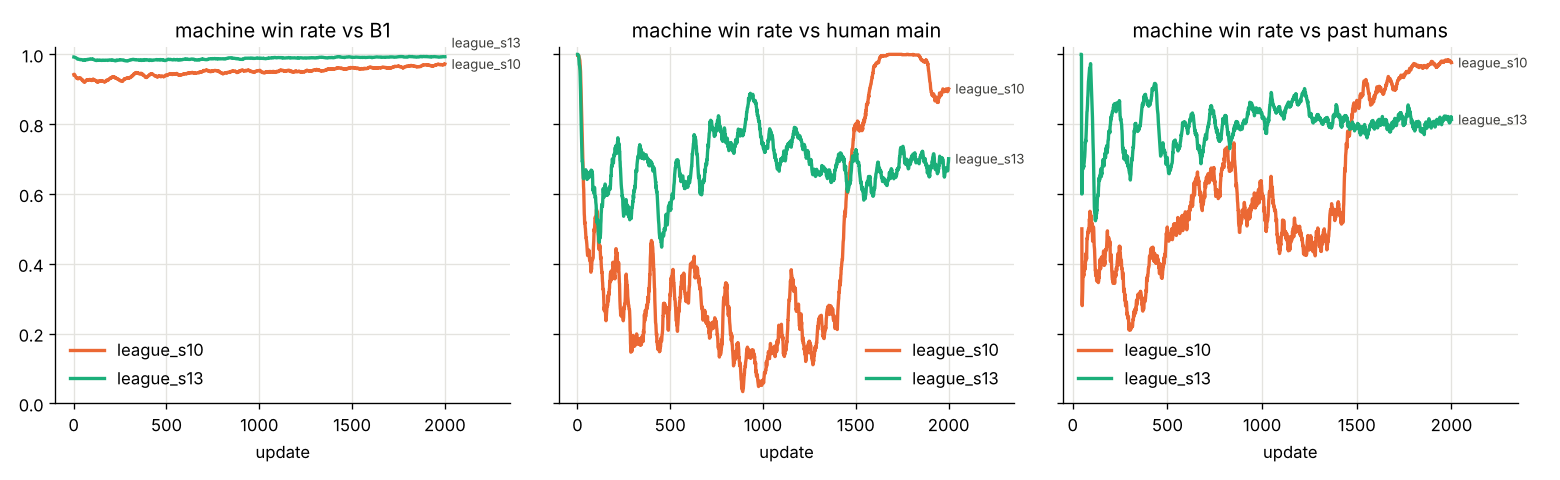
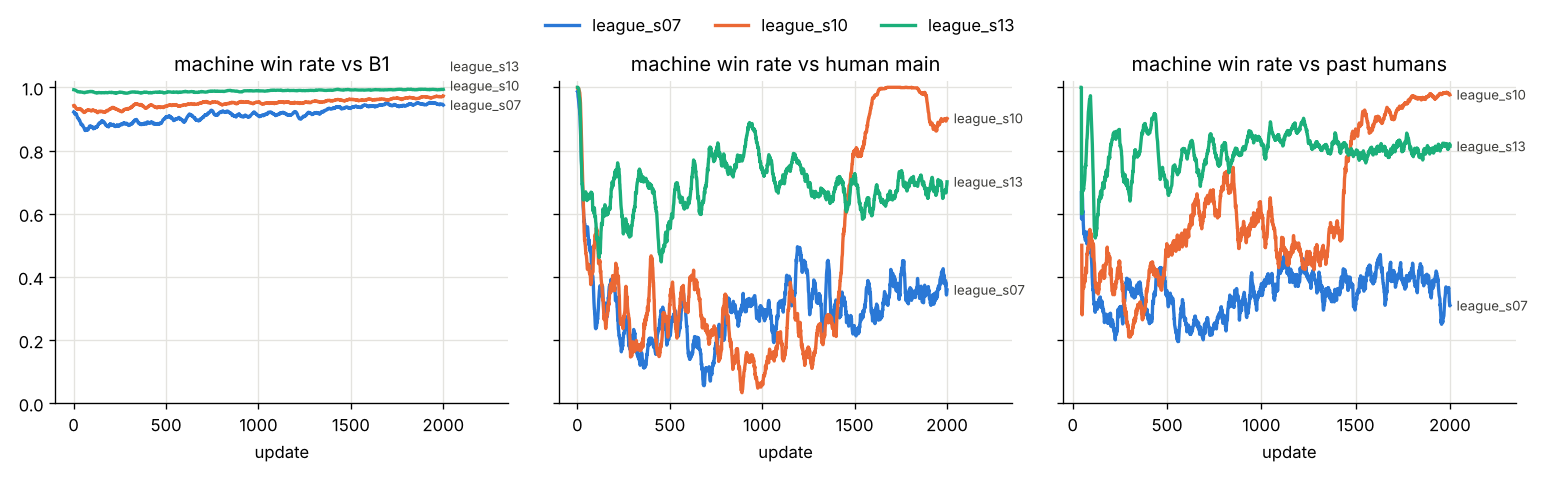
docs(train): the results of 11/17 in the manual's tables; three leagues in one figure
Fills the tables of 6-4 (speed experiment) and 7-7 (fixed opponent vs league, exploiters at 1.0)
from runs/eval and runs/exploit_*, marks the partner's evaluation and the 0.7 league done, and
adds the 1.3 and 0.7 exploiters running tonight. runs/league_curves.png now has all three
leagues, with one legend above the panels so it no longer covers the lines. The plan gains the
evening's results (7.7).

Claude-Session: https://claude.ai/code/session_01Kzu17ewE3agF2gJnYprw2y

diff --git a/python/train/plot_curve.py b/python/train/plot_curve.py
@@ -24,8 +24,8 @@ def colors_for(names):
     return [SPEED_COLORS.get(n.rsplit("_", 1)[-1]) or next(spare) for n in names]
 
 
-def finish_axes(axes):
-    """目盛りの線を薄くし、線が 2 本以上ある図では凡例と線の右端の名前をつける。"""
+def finish_axes(axes, legend=True):
+    """目盛りの線を薄くし、線が 2 本以上ある図では凡例（legend=False なら付けない）と線の右端の名前をつける。"""
     for ax in axes:
         ax.grid(True, color="#e4e3df", linewidth=0.8)
         ax.set_axisbelow(True)
@@ -34,7 +34,8 @@ def finish_axes(axes):
         lines = ax.get_lines()
         if len(lines) < 2:
             continue
-        ax.legend(frameon=False)
+        if legend:
+            ax.legend(frameon=False)
         ends = []
         for line in lines:
             xs, ys = line.get_xdata(), line.get_ydata()

diff --git a/python/train/plot_league.py b/python/train/plot_league.py
@@ -46,9 +46,12 @@ def main(argv=None):
         ax.set_title(f"machine win rate {title}")
         ax.set_xlabel("update")
         ax.set_ylim(0, 1.02)
-    finish_axes(axes)
+    # 線が上下に大きく動くので、凡例は各図の中ではなく図の上に 1 つだけ置く。
+    finish_axes(axes, legend=False)
+    handles, labels = axes[0].get_legend_handles_labels()
+    fig.legend(handles, labels, loc="upper center", ncol=len(runs), frameon=False)
     out = os.path.join(os.path.dirname(os.path.normpath(runs[0])), "league_curves.png")
-    fig.tight_layout()
+    fig.tight_layout(rect=(0, 0, 1, 0.93))
     fig.savefig(out, dpi=120)
     print("wrote", out)
     return out

diff --git a/docs/training-manual.md b/docs/training-manual.md
@@ -1,6 +1,6 @@
 # はさみ将棋AI 学習担当マニュアル（11/12〜11/25）
 
-2026-11-12 作成、11/16 更新（Claude Docs から GitHub へ移した。続きからの学習、テストの数、第7章のリーグを足した）、11/17 更新（チェックリストを進み具合に合わせた。評価と攻略役を 7-7 の 1 つのコマンドにまとめた。リーグの図を 7-8 に足した。push の認証を個人のトークンにした）、本田
+2026-11-12 作成、11/16 更新（Claude Docs から GitHub へ移した。続きからの学習、テストの数、第7章のリーグを足した）、11/17 更新（チェックリストを進み具合に合わせた。評価と攻略役を 7-7 の 1 つのコマンドにまとめた。リーグの図を 7-8 に足した。push の認証を個人のトークンにした。夕方、評価と攻略役の結果を 6-4 と 7-7 の表に書き込んだ）、本田
 
 このマニュアルの順に進めると、11/25 の発表に使う学習した AI と評価の表ができます。各章の最後にある「確認」ができたら、次の章へ進んでください。わからないところは、本田に連絡してください。コマンドは、GitHub で見ると各ブロックの右上のボタンでコピーできます。
 
@@ -43,19 +43,21 @@ flowchart LR
 - [x] ここまでの結果がすべて main に入った（`runs/b1_s07`、`b1_s10`、`b1_s13`、`league_s10`、`league_s13`。11/17）
 - [x] 3 本の学習曲線と、リーグの勝率の図ができた（`runs/curves.png`、`runs/league_curves.png`。7-8）
 
-### 11/17〜18（あなた）
+### 11/17（あなた）
 
-- [ ] 最新を取り込む（7-2）
-- [ ] 評価 5 本と攻略役 3 本を、1 つのコマンドで続けて回す（7-7、2 時間半ほど）
-- [ ] 今の読みの数字が、6-2 の基準と一致している（7-7 の確認）
-- [ ] 評価と攻略役の結果を push する（7-7）
+- [x] 最新を取り込む（7-2）
+- [x] 評価 5 本と攻略役 3 本を、1 つのコマンドで続けて回す（7-7。1 時間ほどで終わった）
+- [x] 今の読みの数字が、6-2 の基準と一致している（58.0%、18.5%）
+- [x] 評価と攻略役の結果を push する（`results/aiexp-08`）
 
-### 11/17〜19（本田）
+### 11/17〜18（本田）
 
-- [ ] 速さ 0.7 のリーグを終える（11/17 に 341 回目まで進んだ）
-- [ ] 0.7 のリーグを push し、評価する（7-7 の最後）
-- [ ] 3 本のリーグを並べた図を作る（7-8）
-- [ ] 評価と攻略役の結果を main に入れる（PR）
+- [x] 速さ 0.7 のリーグを終える（11/17 の 17 時すぎ）
+- [x] 0.7 のリーグを push し、評価する（7-7 の最後）
+- [x] 3 本のリーグを並べた図を作る（7-8）
+- [x] 評価と攻略役の結果を main に入れる（PR）
+- [ ] 速さ 1.3 と 0.7 の機械にも攻略役を当てる（7-7 の最後。11/17 夜に本田の VM で回している）
+- [ ] その結果を push して main に入れ、7-7 の攻略役の表に書き足す
 
 ### 11/24 まで（2 人）
 
@@ -426,7 +428,7 @@ python python/train/evaluate.py --model runs/b1_s10/model.pt --speed-scale 1.0
 
 | AI | ルール | B1 勝率 | B1 取られた枚数 | Race 勝率 | Race 取られた枚数 |
 | --- | --- | --- | --- | --- | --- |
-| 学習した AI | RE＋RW＋RU40（正式） |  |  |  |  |
+| 学習した AI | RE＋RW＋RU40（正式） | 96.5% | 1.01 | 44.0% | 3.33 |
 | 今の読み（つよい） | RE＋RW＋RU40（正式） | 58.0% | 2.33 | 18.5% | 3.77 |
 | 今の読み（つよい、参考） | RE＋RW（RU なし） | 82.5% | 1.04 | 29.0% | 3.24 |
 
@@ -445,11 +447,13 @@ python python/train/evaluate.py --model runs/b1_s10/model.pt --speed-scale 1.0
 | 速さ | AI | B1 勝率 | B1 取られた枚数 | Race 勝率 | Race 取られた枚数 | 外にいた割合（B1） |
 | --- | --- | --- | --- | --- | --- | --- |
 | 1.0 | 今の読み | 58.0% | 2.33 | 18.5% | 3.77 | 44.1% |
-| 1.0 | 学習 |  |  |  |  |  |
-| 0.7 | 今の読み |  |  |  |  |  |
-| 0.7 | 学習 |  |  |  |  |  |
-| 1.3 | 今の読み |  |  |  |  |  |
-| 1.3 | 学習 |  |  |  |  |  |
+| 1.0 | 学習 | 96.5% | 1.01 | 44.0% | 3.33 | 35.7% |
+| 0.7 | 今の読み | 17.0% | 3.70 | 2.0% | 4.23 | 32.1% |
+| 0.7 | 学習 | 92.5% | 1.66 | 42.0% | 3.37 | 54.8% |
+| 1.3 | 今の読み | 78.0% | 1.61 | 42.5% | 3.07 | 52.2% |
+| 1.3 | 学習 | 99.0% | 0.24 | 65.0% | 2.18 | 44.8% |
+
+（11/17 に測った。`runs/eval/b1_s07.txt`、`b1_s10.txt`、`b1_s13.txt`）学習した AI は、どの速さでも B1 に 9 割以上勝った。速さ 0.7 の学習した AI（92.5%）は、速さ 1.3 の今の読み（78.0%）より強い。遅い機械でも、読みで補えることになる。
 
 ### 6-5 対局を録画する
 
@@ -471,7 +475,7 @@ python python/train/record_game.py runs/b1_s10/model.pt --opponent b1 --seed 7 -
 | --- | --- | --- | --- |
 | 速さ 1.0 | あなた | 11/16 に 2000 回まで終わった | main の `runs/league_s10` |
 | 速さ 1.3 | 本田 | 11/17 に 2000 回まで終わった | main の `runs/league_s13` |
-| 速さ 0.7 | 本田 | 11/17 に 341 回目まで進んだ | 本田の VM の `runs/league_s07` |
+| 速さ 0.7 | 本田 | 11/17 に 2000 回まで終わった | main の `runs/league_s07` |
 
 7-2 から 7-6 は 1.0 のリーグを始めたときの手順で、今は済んでいます。あなたがこれからやるのは 7-2（最新を取り込む）と 7-7（評価と攻略役）です。
 
@@ -577,22 +581,30 @@ git add runs/eval && bash tools/push_results.sh runs/exploit_read runs/exploit_s
 
 | 速さ | AI | B1 勝率 | B1 取られた枚数 | Race 勝率 | Race3 勝率 | Race3 取られた枚数 |
 | --- | --- | --- | --- | --- | --- | --- |
-| 1.0 | 固定の相手で学習（`b1_s10`） |  |  |  |  |  |
-| 1.0 | リーグ（`league_s10`） |  |  |  |  |  |
-| 1.3 | 固定の相手で学習（`b1_s13`） |  |  |  |  |  |
-| 1.3 | リーグ（`league_s13`） |  |  |  |  |  |
-| 0.7 | 固定の相手で学習（`b1_s07`） |  |  |  |  |  |
-| 0.7 | リーグ（`league_s07`） |  |  |  |  |  |
+| 1.0 | 固定の相手で学習（`b1_s10`） | 96.5% | 1.01 | 44.0% | 18.5% | 3.94 |
+| 1.0 | リーグ（`league_s10`） | 95.5% | 0.82 | 41.5% | 10.5% | 3.98 |
+| 1.3 | 固定の相手で学習（`b1_s13`） | 99.0% | 0.24 | 65.0% | 73.5% | 1.82 |
+| 1.3 | リーグ（`league_s13`） | 99.0% | 0.26 | 55.5% | 55.0% | 2.48 |
+| 0.7 | 固定の相手で学習（`b1_s07`） | 92.5% | 1.66 | 42.0% | 36.0% | 3.57 |
+| 0.7 | リーグ（`league_s07`） | 97.5% | 1.29 | 36.0% | 30.5% | 3.50 |
+
+（11/17 に測った）リーグの AI は、3 つの速さとも Race と Race3 への勝率が固定の相手で学習した AI より下がった。上がったのは 0.7 の B1 だけ。速さ 1.0 の今の読みは Race3 に 24.0% 勝つので、1.0 では学習した AI 2 本とも Race3 には今の読みより弱い。
 
 2 つ目は攻略役の表です。攻略役の `log.csv` では、`main_win` が攻略役を相手にした機械の勝率、`main_lost` が攻略役に取られた枚数／局です。最後の 20 行（281〜300 回目）の平均を写します。`tail -n 20 runs/exploit_read/log.csv` で見られます。機械の勝率が高く、取られた枚数が少ないほど、攻略されにくい機械です。
 
-| 攻略役が狙った機械 | 機械の勝率（`main_win`） | 取られた枚数（`main_lost`） |
-| --- | --- | --- |
-| 今の読み（`exploit_read`） |  |  |
-| 固定の相手で学習（`exploit_s10`） |  |  |
-| リーグ（`exploit_league`） |  |  |
+| 速さ | 攻略役が狙った機械 | 機械の勝率（`main_win`） | 機械が取った枚数（`main_taken`） | 取られた枚数（`main_lost`） |
+| --- | --- | --- | --- | --- |
+| 1.0 | 今の読み（`exploit_read`） | 84.7% | 3.42 | 0.72 |
+| 1.0 | 固定の相手で学習（`exploit_s10`） | 26.9% | 0.69 | 0.67 |
+| 1.0 | リーグ（`exploit_league`） | 22.2% | 1.96 | 3.58 |
+| 1.3 | 固定の相手で学習（`exploit_s13`） |  |  |  |
+| 1.3 | リーグ（`exploit_league_s13`） |  |  |  |
+| 0.7 | 固定の相手で学習（`exploit_s07`） |  |  |  |
+| 0.7 | リーグ（`exploit_league_s07`） |  |  |  |
 
-0.7 のリーグが終わったら、本田が本田の VM で次を回して push します。
+（速さ 1.0 の 3 行は 11/17 に測った。最後の 20 回を局数で重みづけした平均）リーグの機械は、攻略役に 1 局あたり 3.6 枚取られた。攻略役は 100〜150 回目で攻め方を見つけ、そこから短い局で勝ち続けた。固定の相手で学習した機械は 0.7 枚しか取られないが、攻略役が守りを固めると自分も 0.5 枚ほどしか取れず、勝ち切れない。今の読みは攻略役にも 85% 勝つ。速さ 1.0 のリーグで 1,400 回目から機械が急に勝ち出したのは、強くなったのではなく、崩れた人間の主役と過去の版にだけ効く指し方に偏ったためと読める。攻略役は種 1 つ・300 回の結果なので、言えるのは「この設定のリーグでは、攻略されにくくはならなかった」まで。
+
+0.7 のリーグの評価は、本田が本田の VM で次のように回して push しました（11/17）。
 
 ```bash
 python -u python/train/evaluate.py --model runs/league_s07/machine.pt --speed-scale 0.7 --opponents b1,race,race3 | tee runs/eval/league_s07.txt
@@ -600,6 +612,19 @@ python -u python/train/evaluate.py --model runs/league_s07/machine.pt --speed-sc
 
 ```bash
 git add runs/eval && bash tools/push_results.sh runs/league_s07
+```
+
+速さ 1.3 と 0.7 の機械に当てる攻略役 4 本も、本田の VM で続けて回しています（11/17 夜、1 時間ほど）。終わったら次で push し、上の攻略役の表の空いている 4 行を埋めます。
+
+```bash
+python python/train/league.py --exploit runs/b1_s13/model.pt --speed-scale 1.3 --updates 300 --threads 3 --out runs/exploit_s13 && \
+python python/train/league.py --exploit runs/league_s13/machine.pt --speed-scale 1.3 --updates 300 --threads 3 --out runs/exploit_league_s13 && \
+python python/train/league.py --exploit runs/b1_s07/model.pt --speed-scale 0.7 --updates 300 --threads 3 --out runs/exploit_s07 && \
+python python/train/league.py --exploit runs/league_s07/machine.pt --speed-scale 0.7 --updates 300 --threads 3 --out runs/exploit_league_s07
+```
+
+```bash
+bash tools/push_results.sh runs/exploit_s13 runs/exploit_league_s13 runs/exploit_s07 runs/exploit_league_s07
 ```
 
 ### 7-8 リーグの図を作る
@@ -610,7 +635,9 @@ git add runs/eval && bash tools/push_results.sh runs/league_s07
 python python/train/plot_league.py runs/league_s07 runs/league_s10 runs/league_s13
 ```
 
-`runs/league_curves.png` にできます。1.0 と 1.3 だけの図は、main の `runs/league_curves.png` にすでに入っています。
+`runs/league_curves.png` にできます。3 本を並べた図は、main の `runs/league_curves.png` に入っています（11/17）。
+
+図から読めること: B1 への勝率は 3 本とも下がらなかった。人間の主役への機械の勝率は、1.3 では 0.6〜0.9 で動き続け、0.7 では 0.15〜0.5 と人間の主役に負け越したまま終わった。1.0 だけが、1,400〜1,550 回目に 0.2 から 1.0 近くへ跳ね、過去の版への勝率も同じころ 0.98 まで上がった（7-7 の攻略役の結果を参照）。
 
 ## 困ったとき
 
@@ -648,9 +675,10 @@ python python/train/plot_league.py runs/league_s07 runs/league_s10 runs/league_s
 | 学習（速さ 0.7 と 1.3） | 11/17 に済んだ |  |
 | リーグの環境（人間側も Python から指す DuelEnv）とプログラム（`league.py`） | 作った。直すのも本田 | 使う |
 | リーグ（速さ 1.0） |  | 11/16 に済んだ |
-| リーグ（速さ 1.3 と 0.7） | 1.3 は 11/17 に済んだ。0.7 は回している |  |
-| 評価（5 本）と攻略役（3 本） |  | 自分の VM で回して push する（7-7） |
-| 0.7 のリーグの評価、リーグの図、結果を main に入れる PR | やる |  |
+| リーグ（速さ 1.3 と 0.7） | 11/17 に済んだ |  |
+| 評価（5 本）と攻略役（3 本） |  | 11/17 に済んだ（7-7） |
+| 0.7 のリーグの評価、リーグの図、結果を main に入れる PR | 11/17 に済んだ |  |
+| 速さ 1.3 と 0.7 の攻略役（4 本） | 11/17 夜に回している |  |
 | 評価の表、対局の GIF（11/24 まで） | 0.7 の行を埋める | 表を埋め、GIF を作る |
 | スライド | 構成を確かめる | 下書きを作る |
 | 発表で話す分担 | 2 人で決める | 2 人で決める |

diff --git a/plans/2026-11-12_ai-enshu-scope.md b/plans/2026-11-12_ai-enshu-scope.md
@@ -184,3 +184,12 @@ TA の助言は 3 つ: 人間を模したボットに勝つのは一区切りな
 - ここまでの結果はすべて main の `runs/` に入った（[SoyaHonda/hasami-shogi#17](https://github.com/SoyaHonda/hasami-shogi/pull/17)、[SoyaHonda/hasami-shogi#18](https://github.com/SoyaHonda/hasami-shogi/pull/18)）。3 本の学習曲線（`runs/curves.png`）と、リーグの勝率を速さごとに並べた図（`runs/league_curves.png`、`python/train/plot_league.py`）を足した（[SoyaHonda/hasami-shogi#19](https://github.com/SoyaHonda/hasami-shogi/pull/19)）。
 - 結果の push は、共有のトークンではなく、それぞれのアカウントの fine-grained トークン（`hasami-shogi` の Contents の読み書きだけ）でする。相方は自分の権限で push できていた。
 - 7.5 の日程は 2 日ほど前に進んだ。評価 5 本（B1・Race・Race3、それぞれの速さ）と攻略役 3 本は、相方の VM で 11/17〜18 に 1 つのコマンドで続けて回す（学習担当マニュアルの 7-7）。0.7 のリーグの評価と 3 本を並べた図は、0.7 が終わってから本田がやる。
+
+### 7.7 11/17 夕方の結果
+
+- 0.7 のリーグも 2000 回まで終わり（本田の VM、17 時すぎ）、3 本のリーグと評価 6 本、速さ 1.0 の攻略役 3 本の結果が main に入った（`runs/eval/`、`runs/exploit_*`、`runs/league_curves.png`）。数字は学習担当マニュアルの 6-4 と 7-7 の表にある。
+- 固定の相手（B1）で学習した AI は、どの速さでも B1 に 9 割以上勝った（0.7 が 92.5%、1.0 が 96.5%、1.3 が 99.0%）。目標の 7 割を超えた。速さ 0.7 の学習した AI は、速さ 1.3 の今の読み（78.0%）より強く、遅い機械でも読みで補えた。
+- リーグの AI は、3 つの速さとも Race と Race3 への勝率が固定の相手で学習した AI より下がった（1.0 の Race3 は 18.5% → 10.5%、1.3 の Race3 は 73.5% → 55.0%）。
+- 速さ 1.0 の攻略役（種 1、300 回）に取られた枚数／局は、今の読みが 0.72、固定の相手で学習した AI が 0.67、リーグの AI が 3.58。リーグの AI はいちばん攻略されやすかった。7.6 で保留にした 1.0 のリーグの 1,400 回目からの跳ね上がりは、機械が強くなったのではなく、崩れた人間の主役と過去の版に偏ったものと読む。
+- 0.7 のリーグでは、人間の主役が最後まで機械に勝ち越した（機械の勝率 0.15〜0.5）。1.3 では機械が 0.6〜0.9 で勝ち越し続けた。
+- 速さ 1.3 と 0.7 の機械に当てる攻略役 4 本を、11/17 夜に本田の VM で回している。リーグで攻略されやすくなったのが 1.0 だけかを確かめる。
